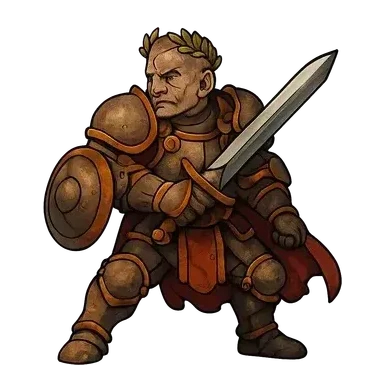
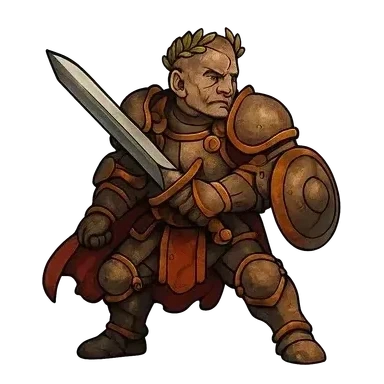
Show every number in an exchange, and drop the trade leftover system
TRADE. Removed at Luke's call — "I hate the left over trade value system, just
remove it, we dont want it. i will advise never to do that. its an edge edge case
and gets super complicated." The job, its cron, the matcher and the four columns
are gone; the one corrected trade keeps cash 0 / credit 49.39, which is the
truthful record either way. The two July trades still overstate cash payouts by
$21.70 between them and are now unflagged, so they need a decision rather than a
system.

FACING. Rung 28 (Undefeated Oro) was drawn facing left, so the arena's mirror
turned him away from the hero — the same defect as rung 24. Re-audited rungs 1-50
at 300px, which is the size at which this is actually legible; my first pass ran
at 170px and missed this one, which is why it took a second report to find. 51-100
still to check at the larger size.

DAMAGE NUMBERS. Two independent faults, both hiding the blows you land:

  - The float builder read bout.log[length - 1] and nothing else. One exchange
    writes SEVERAL lines — your swing, their swing, a riposte, a burn ticking —
    so only whichever landed last ever produced a number. With a burn on you that
    was the burn, every beat.
  - The shake/sound chain was `if (you took it) … else if (you landed it)`, so a
    blow you landed was discarded outright whenever anything hit you in the same
    beat.

Together: "I hit him and it doesnt show the hit on him like no damage numbers at
[…]

diff --git a/src/components/ArenaClient.js b/src/components/ArenaClient.js
@@ -538,6 +538,9 @@ export default function ArenaClient({ initial, boutOnly = false, onLeave = null 
     const [boardAll, setBoardAll] = useState(false);
     const [upgFlash, setUpgFlash] = useState(null);
     const prev = useRef({ hp: null, foeHp: null, round: null });
+    // How much of the log has already been turned into floating numbers. Without this the screen only ever
+    // showed the LAST line of an exchange — see the effect that reads it.
+    const lastLogSeen = useRef(0);
     const resultAtRef = useRef(0);
     const setResultAt = (v) => { resultAtRef.current = v; };
     const logEnd = useRef(null);
@@ -747,7 +750,11 @@ export default function ArenaClient({ initial, boutOnly = false, onLeave = null 
             Sfx.hurt(w);
             Haptic.hurt(w);
             duck(0.35, 0.2);
-        } else if (p.foeHp != null && bout.foeHp < p.foeHp) {
+        }
+        // ⚠ NOT `else if`. Both bars can move in one exchange — you land a blow and their swing, their
+        // riposte or a burn takes some of yours back. Chained, the blow you LANDED was silently dropped
+        // whenever anything hit you in the same beat: no shake, no impact sound, nothing.
+        if (p.foeHp != null && bout.foeHp < p.foeHp) {
             // YOU LANDED IT.
             const w = Math.min(1, (p.foeHp - bout.foeHp) / Math.max(1, bout.foeMaxHp * 0.22));
             setHitSide("them");
@@ -945,64 +952,79 @@ export default function ArenaClient({ initial, boutOnly = false, onLeave = null 
     // amount is a number too: "you turned aside 9" was buried in grey log text under the buttons, so the one
     // thing your defensive choices actually bought you was the one thing never shown on the field.
     useEffect(() => {
-        const l = bout?.log?.length ? bout.log[bout.log.length - 1] : null;
-        if (!l) return undefined;
+        // ── EVERY LINE THAT ARRIVED, NOT JUST THE LAST ONE ──────────────────────────────────────────────
+        // This read bout.log[length - 1] and nothing else. One exchange writes SEVERAL lines — your swing,
+        // their swing, a riposte, a burn ticking — so whichever landed last was the only one that ever put a
+        // number on screen. While a burn was on you that was the burn, every single beat: you would hit them,
+        // watch their bar drop, and see no number, no shake and hear no impact.
+        // Luke: "I hit him and it doesnt show the hit on him like no damage numbers at all and I burn and
+        // take damage."
+        const len = bout?.log?.length || 0;
+        if (!len) return undefined;
+        const from = Math.min(lastLogSeen.current || 0, len);
+        const fresh = len > from ? bout.log.slice(from) : [bout.log[len - 1]];
+        lastLogSeen.current = len;
         const pops = [];
-        const target = l.who === "you" ? "right" : "left";
-        // ── ONE NUMBER PER BLOW ──────────────────────────────────────────────────────────────────────────
-        // A three-hit flurry used to arrive as a single accumulated number, so the one thing that makes it a
-        // flurry — that it is THREE — was invisible, and Rampage looked exactly like a big swing with a
-        // different sprite. `each` is the per-blow breakdown from the engine; every entry gets its own float,
-        // staggered so they read as a sequence rather than a pile, and a missed blow says MISS in its place.
-        const each = Array.isArray(l.each) ? l.each : null;
-        if (each && each.length > 1) {
-            each.forEach((n, i) => {
-                pops.push({
-                    side: target,
-                    n: n > 0 ? n : null,
-                    text: n > 0 ? null : "MISS",
-                    kind: n > 0 ? (l.crit ? "crit" : "dmg") : "miss",
-                    at: i * 170,
+        fresh.forEach((l, li) => {
+            const sub = [];
+            const target = l.who === "you" ? "right" : "left";
+            // ── ONE NUMBER PER BLOW ──────────────────────────────────────────────────────────────────────────
+            // A three-hit flurry used to arrive as a single accumulated number, so the one thing that makes it a
+            // flurry — that it is THREE — was invisible, and Rampage looked exactly like a big swing with a
+            // different sprite. `each` is the per-blow breakdown from the engine; every entry gets its own float,
+            // staggered so they read as a sequence rather than a pile, and a missed blow says MISS in its place.
+            const each = Array.isArray(l.each) ? l.each : null;
+            if (each && each.length > 1) {
+                each.forEach((n, i) => {
+                    sub.push({
+                        side: target,
+                        n: n > 0 ? n : null,
+                        text: n > 0 ? null : "MISS",
+                        kind: n > 0 ? (l.crit ? "crit" : "dmg") : "miss",
+                        at: i * 170,
+                    });
                 });
-            });
-        } else if (l.damage > 0) {
-            // You are on the LEFT, so a blow YOU land floats over the right-hand opponent.
-            pops.push({ side: target, n: l.damage, kind: l.crit ? "crit" : "dmg" });
-        } else if (l.grade === "miss") {
-            pops.push({ side: target, n: null, text: "MISS", kind: "miss" });
-        }
-        // ── AND THEY BELONG TO WHOEVER EARNED THEM ──────────────────────────────────────────────────────
-        // All three of these were pinned to "left", which is YOU. Damage was already handled correctly, so a
-        // blow you took floated over you and a blow you landed floated over them — but a heal, a block and a
-        // ward always floated over you no matter who did it. So the opponent drinking a poultice put a big
-        // green +N over YOUR hero, and the opponent bracing looked like you had been handed a shield. The
-        // engine was right about all of it; only the side was wrong.
-        const mine = l.who === "you";
-        const ownSide = mine ? "left" : "right";
-        if (l.blocked > 0) pops.push({ side: ownSide, n: l.blocked, kind: "block", at: 120 });
-        if (l.healed > 0) pops.push({ side: ownSide, n: l.healed, kind: "heal" });
-        // Lifesteal off thorns and ripostes lands on THEIR log line (it happens during their swing), so it
-        // floats over whoever drank it rather than over the fighter whose line it is written on.
-        // ALWAYS YOURS. `stolen` is only ever written on the opponent's swing line (it is your lifesteal off
-        // thorns and ripostes, which happen during their beat), so keying it to whose line it is put your own
-        // drink over THEIR head every single time — the exact mistake the comment above it warns against.
-        if (l.stolen > 0) pops.push({ side: "left", n: l.stolen, kind: "heal", at: 240 });
-        if (l.soaked > 0) pops.push({ side: ownSide, n: l.soaked, kind: "ward", at: 60 });
-        // A BRACE IS A SHIELD NOW, on both sides of the ring, so it floats the same green number your own
-        // Guard does — `soaked`, handled one line up. `bracedPct` is gone with the flat reduction it named.
-        // A DEFENDER'S THORNS COME OFF YOU. It is their number, but it lands on your health, so it floats over
-        // you — the same rule as any other blow: the pop goes where the damage went.
-        if (l.theirThorns > 0) pops.push({ side: "left", n: l.theirThorns, kind: "thorn", at: 220 });
-        // What their banked guard ate — over THEM, because it is their shield doing it.
-        if (l.theirSoak > 0) pops.push({ side: "right", n: l.theirSoak, kind: "ward", at: 40 });
-        // ── WHAT YOU SENT BACK ── over THEM, because it is damage you dealt. A shield build's whole offence
-        // is thorns and riposte, and neither has ever put a number on the screen: the bar moved and nothing
-        // said why. Staggered after the incoming hit so the two do not land on the same frame.
-        if (l.thorned > 0) pops.push({ side: "right", n: l.thorned, kind: "thorn", at: 200 });
-        // ── AND WHAT THEY SENT BACK ── their riposte lands on YOU, so it floats over you. Same rule again:
-        // the pop goes where the damage went, not to whoever owns the move.
-        if (l.takenBack > 0) pops.push({ side: "left", n: l.takenBack, kind: "thorn", at: 280 });
-        if (l.riposted > 0) pops.push({ side: "right", n: l.riposted, kind: "thorn", at: 280 });
+            } else if (l.damage > 0) {
+                // You are on the LEFT, so a blow YOU land floats over the right-hand opponent.
+                sub.push({ side: target, n: l.damage, kind: l.crit ? "crit" : "dmg" });
+            } else if (l.grade === "miss") {
+                sub.push({ side: target, n: null, text: "MISS", kind: "miss" });
+            }
+            // ── AND THEY BELONG TO WHOEVER EARNED THEM ──────────────────────────────────────────────────────
+            // All three of these were pinned to "left", which is YOU. Damage was already handled correctly, so a
+            // blow you took floated over you and a blow you landed floated over them — but a heal, a block and a
+            // ward always floated over you no matter who did it. So the opponent drinking a poultice put a big
+            // green +N over YOUR hero, and the opponent bracing looked like you had been handed a shield. The
+            // engine was right about all of it; only the side was wrong.
+            const mine = l.who === "you";
+            const ownSide = mine ? "left" : "right";
+            if (l.blocked > 0) sub.push({ side: ownSide, n: l.blocked, kind: "block", at: 120 });
+            if (l.healed > 0) sub.push({ side: ownSide, n: l.healed, kind: "heal" });
+            // Lifesteal off thorns and ripostes lands on THEIR log line (it happens during their swing), so it
+            // floats over whoever drank it rather than over the fighter whose line it is written on.
+            // ALWAYS YOURS. `stolen` is only ever written on the opponent's swing line (it is your lifesteal off
+            // thorns and ripostes, which happen during their beat), so keying it to whose line it is put your own
+            // drink over THEIR head every single time — the exact mistake the comment above it warns against.
+            if (l.stolen > 0) sub.push({ side: "left", n: l.stolen, kind: "heal", at: 240 });
+            if (l.soaked > 0) sub.push({ side: ownSide, n: l.soaked, kind: "ward", at: 60 });
+            // A BRACE IS A SHIELD NOW, on both sides of the ring, so it floats the same green number your own
+            // Guard does — `soaked`, handled one line up. `bracedPct` is gone with the flat reduction it named.
+            // A DEFENDER'S THORNS COME OFF YOU. It is their number, but it lands on your health, so it floats over
+            // you — the same rule as any other blow: the pop goes where the damage went.
+            if (l.theirThorns > 0) sub.push({ side: "left", n: l.theirThorns, kind: "thorn", at: 220 });
+            // What their banked guard ate — over THEM, because it is their shield doing it.
+            if (l.theirSoak > 0) sub.push({ side: "right", n: l.theirSoak, kind: "ward", at: 40 });
+            // ── WHAT YOU SENT BACK ── over THEM, because it is damage you dealt. A shield build's whole offence
+            // is thorns and riposte, and neither has ever put a number on the screen: the bar moved and nothing
+            // said why. Staggered after the incoming hit so the two do not land on the same frame.
+            if (l.thorned > 0) sub.push({ side: "right", n: l.thorned, kind: "thorn", at: 200 });
+            // ── AND WHAT THEY SENT BACK ── their riposte lands on YOU, so it floats over you. Same rule again:
+            // the pop goes where the damage went, not to whoever owns the move.
+            if (l.takenBack > 0) sub.push({ side: "left", n: l.takenBack, kind: "thorn", at: 280 });
+            if (l.riposted > 0) sub.push({ side: "right", n: l.riposted, kind: "thorn", at: 280 });
+            // Each line's numbers come after the previous line's, so an exchange reads as a sequence.
+            for (const item of sub) pops.push({ ...item, at: (item.at || 0) + li * 150 });
+        });
         if (!pops.length) return undefined;
         setPop({ id: bout.log.length, items: pops });
         // Outlives the animation (2.1s, crit 2.4s) rather than cutting it off — unmounting at 1000ms is what
